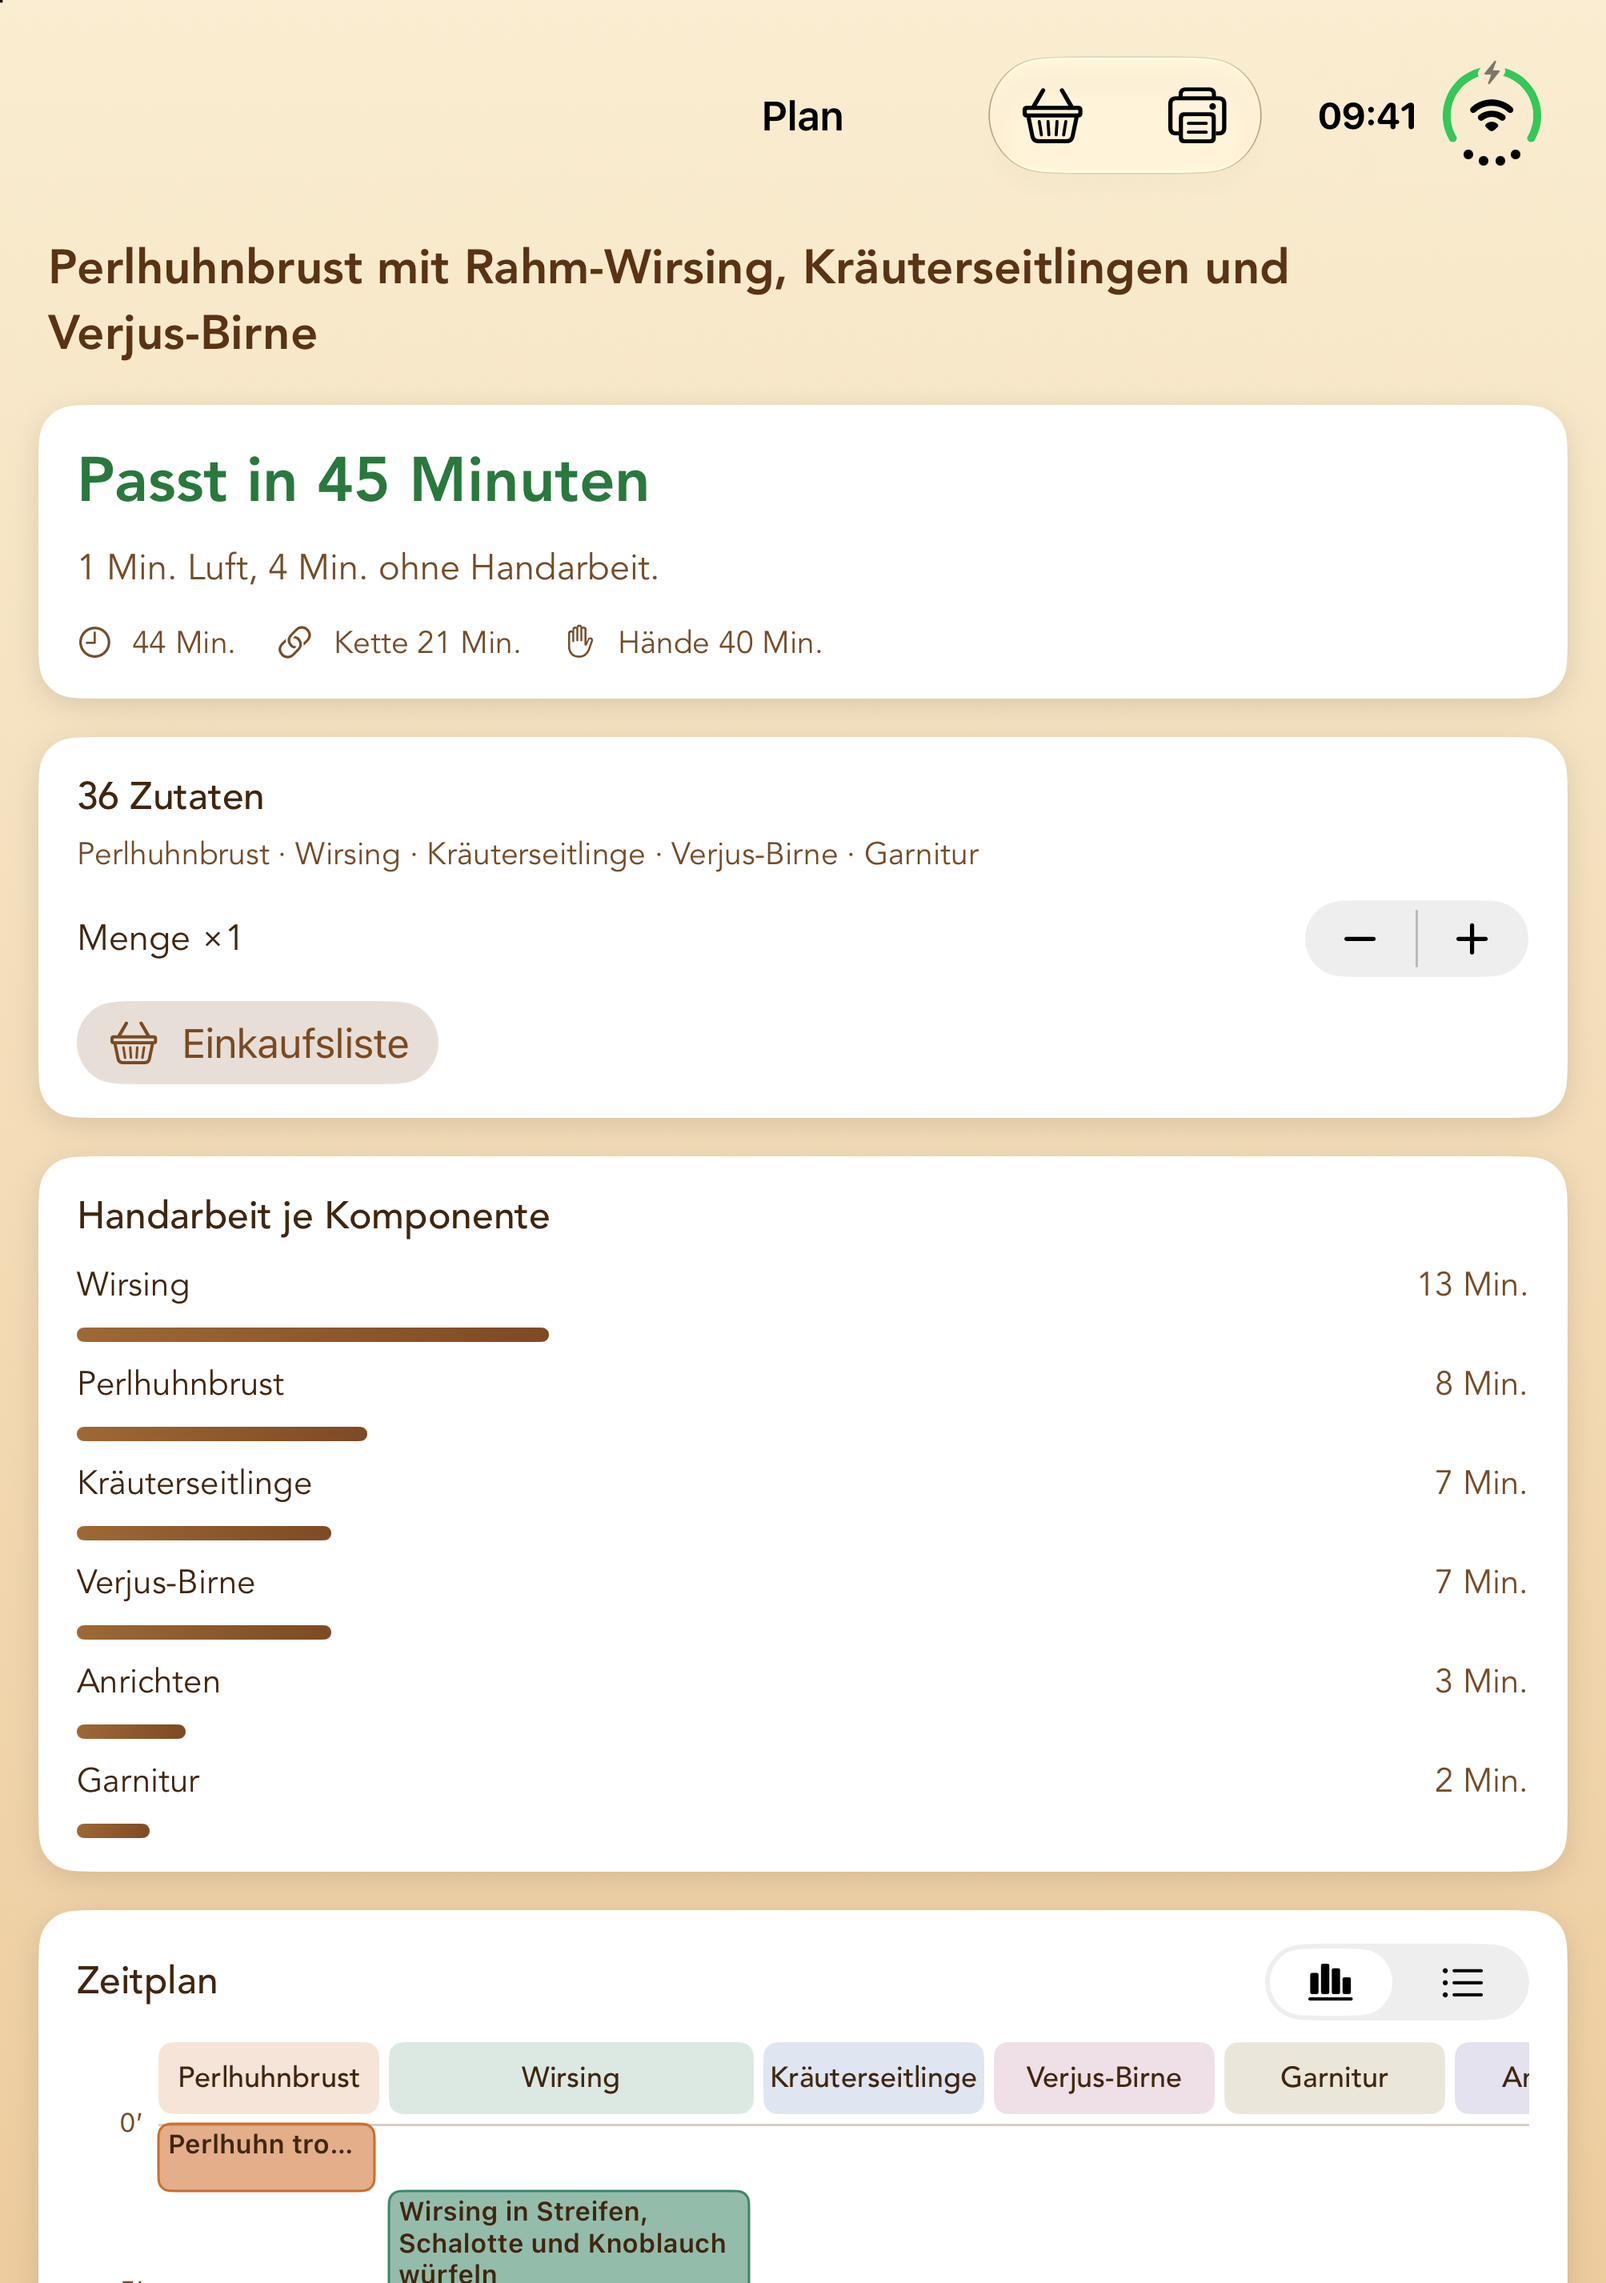
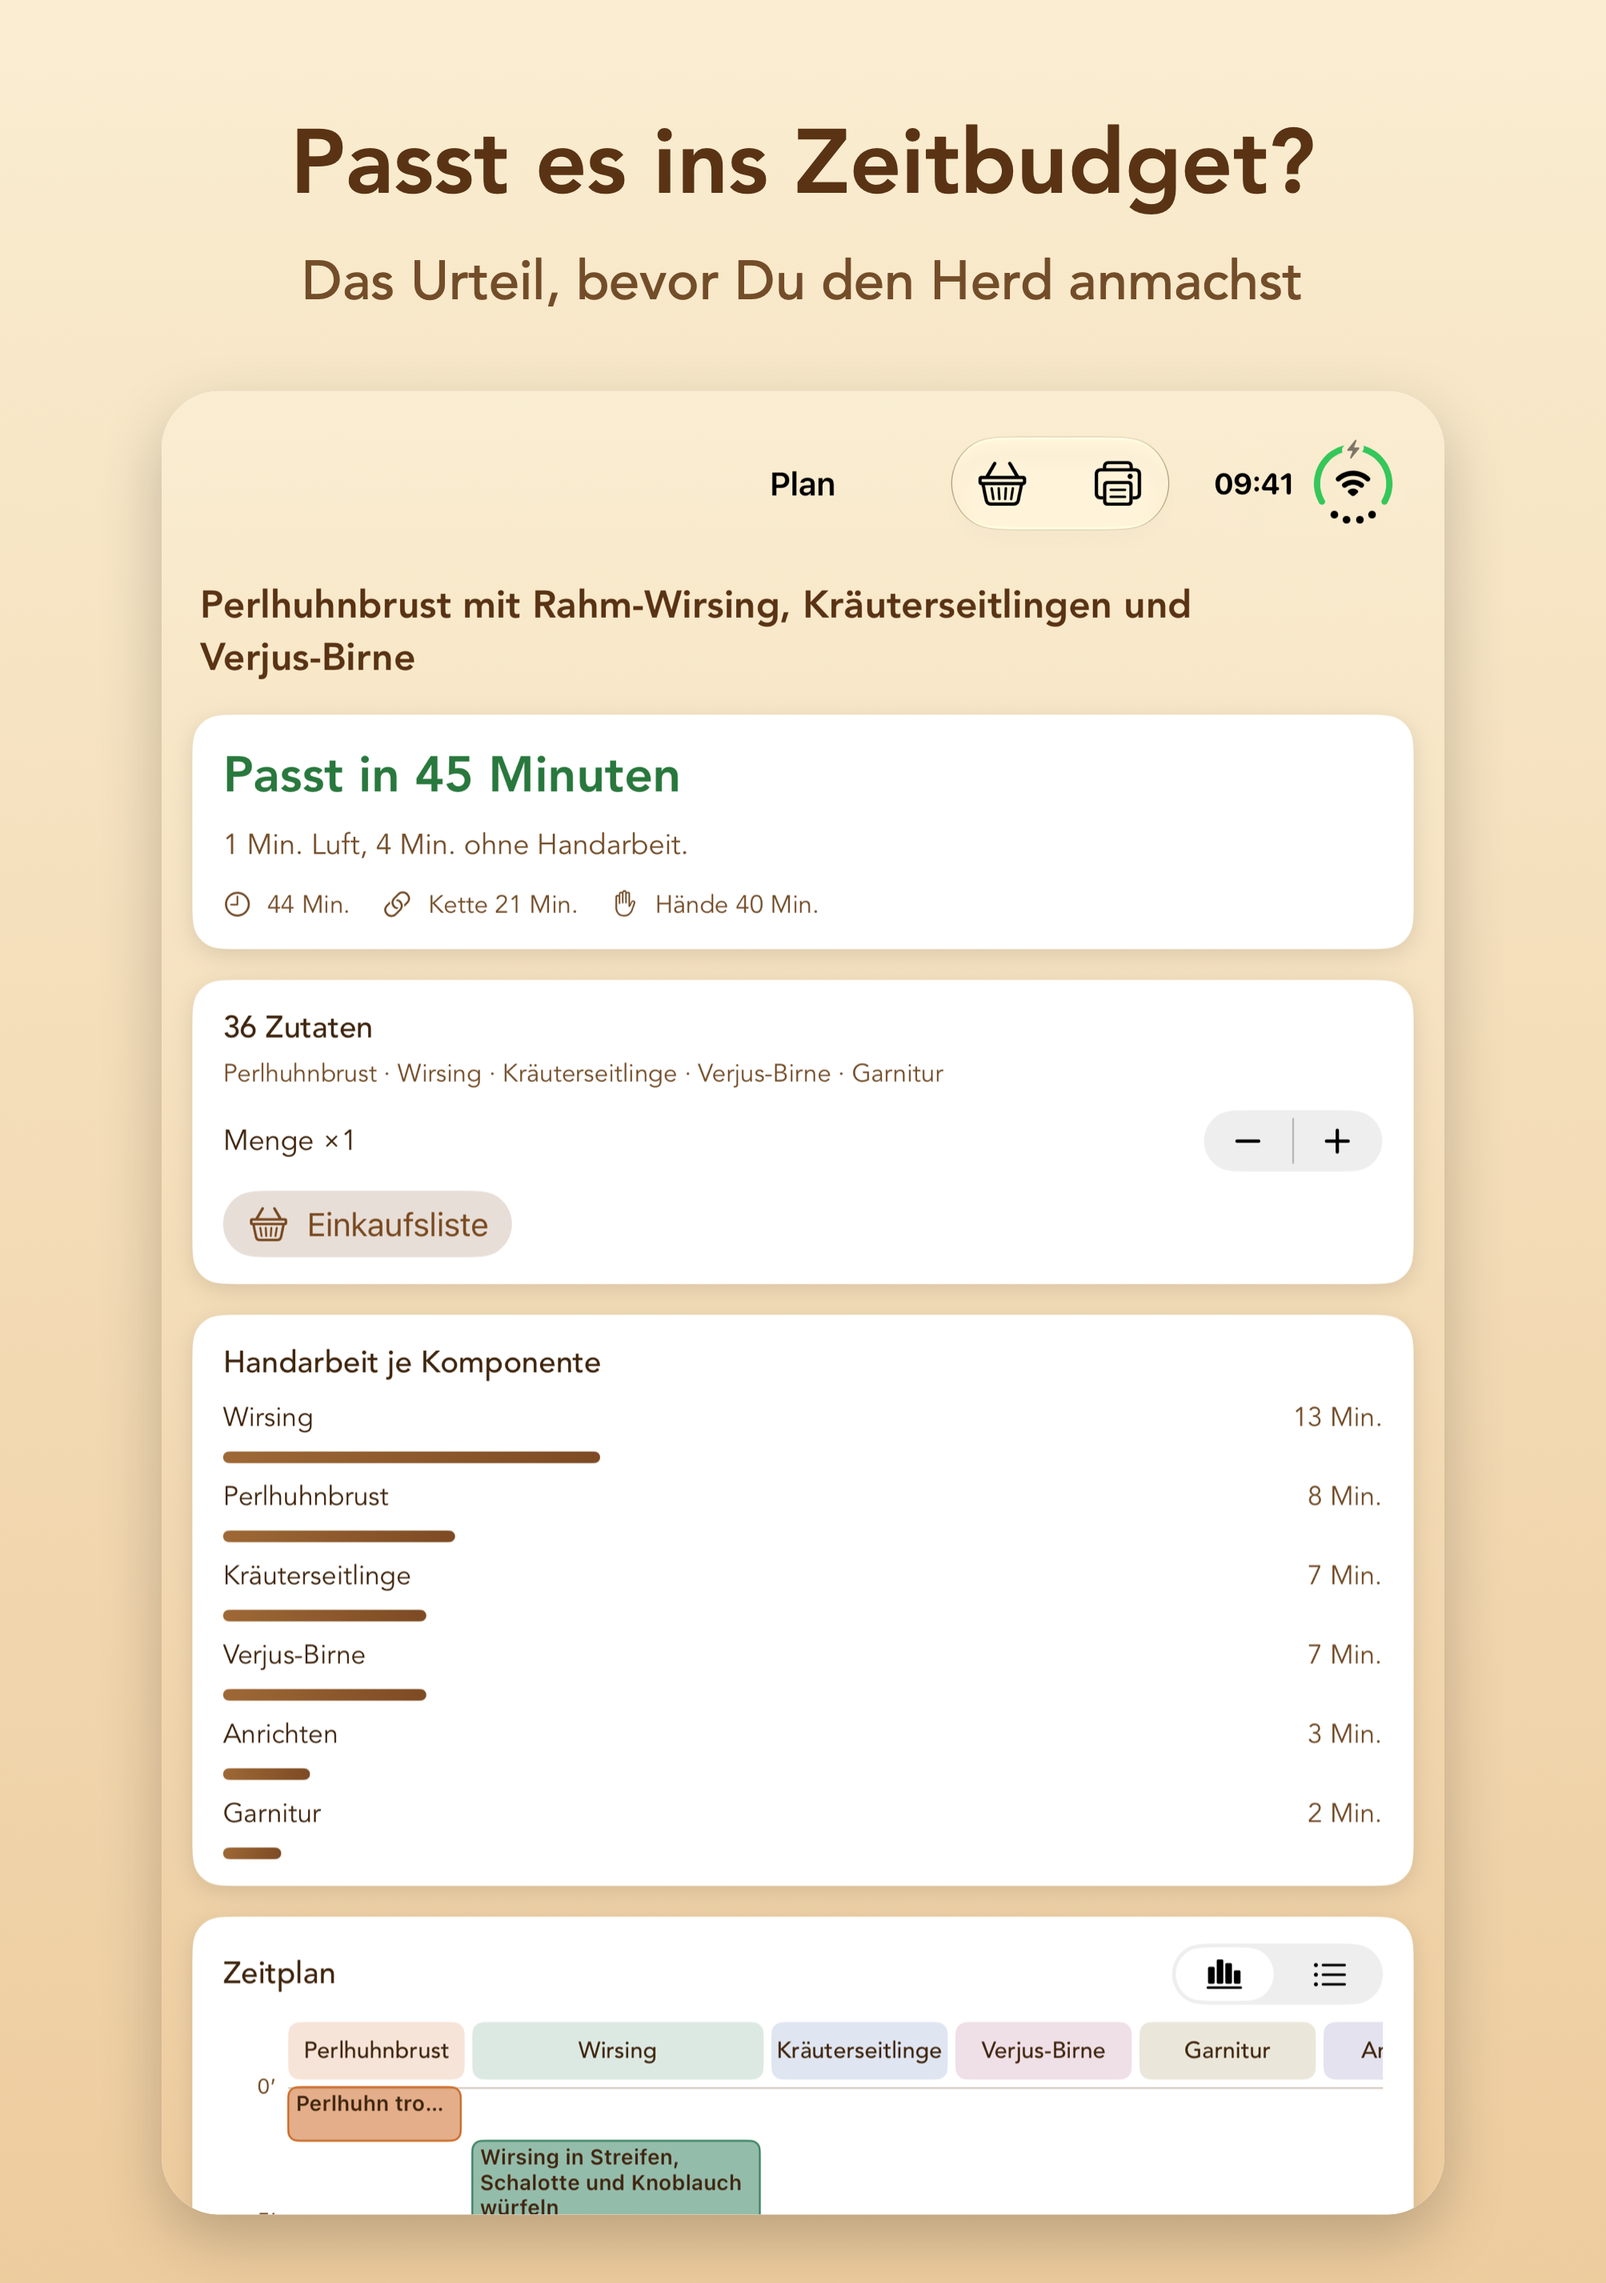
CookPlanner's store pictures carry headlines like BakePlanner's, and the Pro motifs (statistics, menu) a PRO badge

diff --git a/docs/cookplanner/CookPlanner-Store.md b/docs/cookplanner/CookPlanner-Store.md
@@ -214,12 +214,18 @@ Shopping list: on a dish's plan, the basket button. Settings (slider icon): time
 
 ## Bildschirmfotos
 
-Aufgenommen im Simulator (iPhone 17 Pro – laut BakePlanners Erfahrung nimmt App Store Connect die Maße der *Max*-Modelle nicht an –, iPad Pro 13 Zoll und iPhone Duo aufgeklappt, alle iOS 27.3) mit Statusleiste 9:41, Zeitbudget 45 Minuten und den Debug-Startargumenten: ohne Argument die Gerichteliste, `-PlanSample 0` der Plan, `-TimelineSample 0 -TimelineNow 13.5` die Zeitachse, `-CookSample 0 -CookElapsed 790 -settings.clockMode challenge` der laufende Kochmodus, `-ShoppingSample 0` die Einkaufsliste, `-HistoryDemo statistics` die Statistik, `-MenuSample 1 -settings.budgetMinutes 120` der Plan eines Menüs aus zwei Beispielen (Wirsingrolle als Vorspeise, Perlhuhnbrust als Hauptgang; das Budget-Argument muss **vor** dem allgemeinen stehen oder es ersetzen, sonst gewinnt das spätere); dazu `-settings.budgetMinutes 45 -AppleLanguages (de) -AppleLocale de_DE`. Die aufgeklappte Duo: `hinge -d <udid> open`, dann `hinge -d <udid> orient landscape-left` (Innendisplay hochkant), App mit dem Argument starten und `xcrun simctl io <udid> screenshot --display 3` – Berührungen erreichen das Innendisplay im Simulator nicht, die Startargumente brauchen keine.
+Seit 26.11.2026 mit Überschrift wie bei BakePlanner: Die Rohbilder liegen je Gerät in `…/de/roh/`, darüber setzt `scripts/bakeplanner/appstore-captions.swift` Überschrift und Unterzeile aus `docs/cookplanner/appstore/captions.json` (gleiche Farben und Schrift wie CookPlanner). Pro-Motive tragen eine **„PRO“-Marke** über der Überschrift (Liste `pro`: **06 Statistik**, **07 Menü**); der Kochmodus (04) bleibt ohne, weil er frei ist. Neu zusammensetzen:
+
+```
+for d in iphone-6.9 ipad-13 iphone-duo-inner; do swift scripts/bakeplanner/appstore-captions.swift docs/cookplanner/appstore/captions.json de docs/cookplanner/appstore/1.0/$d/de/roh docs/cookplanner/appstore/1.0/$d/de; done
+```
+
+Rohbilder: Aufgenommen im Simulator (iPhone 17 Pro – laut BakePlanners Erfahrung nimmt App Store Connect die Maße der *Max*-Modelle nicht an –, iPad Pro 13 Zoll und iPhone Duo aufgeklappt, alle iOS 27.3) mit Statusleiste 9:41, Zeitbudget 45 Minuten und den Debug-Startargumenten: ohne Argument die Gerichteliste, `-PlanSample 0` der Plan, `-TimelineSample 0 -TimelineNow 13.5` die Zeitachse, `-CookSample 0 -CookElapsed 790 -settings.clockMode challenge` der laufende Kochmodus, `-ShoppingSample 0` die Einkaufsliste, `-HistoryDemo statistics` die Statistik, `-MenuSample 1 -settings.budgetMinutes 120` der Plan eines Menüs aus zwei Beispielen (Wirsingrolle als Vorspeise, Perlhuhnbrust als Hauptgang; das Budget-Argument muss **vor** dem allgemeinen stehen oder es ersetzen, sonst gewinnt das spätere); dazu `-settings.budgetMinutes 45 -AppleLanguages (de) -AppleLocale de_DE`. Die aufgeklappte Duo: `hinge -d <udid> open`, dann `hinge -d <udid> orient landscape-left` (Innendisplay hochkant), App mit dem Argument starten und `xcrun simctl io <udid> screenshot --display 3` – Berührungen erreichen das Innendisplay im Simulator nicht, die Startargumente brauchen keine. **Stolperstein:** Der erste Start nach `simctl install` ist langsam und übernimmt die Startargumente nicht zuverlässig (leerer Kochmodus, Liste mit 35 statt 45 Minuten) – vorher einmal ohne Bild starten und 10 Sekunden warten.
 
 ## Offen
 
 - CookPlanner Pro: In-App-Kauf anlegen und mit 1.0 einreichen, erst danach die Schalter setzen – Reihenfolge in [CookPlanner-Pro.md](CookPlanner-Pro.md).
 
 - Webseiten `cookplanner.html` und `cookplanner-privacy.html` ins Website-Repository hochladen (Hans-Peter), dann die beiden URLs oben in App Store Connect eintragen.
-- Screenshots hochladen: `docs/cookplanner/appstore/1.0/iphone-6.9/de/` (1206 × 2622), `…/ipad-13/de/` (2064 × 2752) und `…/iphone-duo-inner/de/` (2007 × 2853, iPhone Duo aufgeklappt), je sieben Bilder (Gerichte, Plan, Zeitachse, Kochen mit Vorlesen und Sprachbefehlen, Einkauf, Statistik, Menü; neu aufgenommen am 26.11.); ohne eigene Bilder für en/fr nimmt App Store Connect die deutschen. iPad bleibt unterstützt (Layout im Simulator geprüft, Hans-Peter nutzt die App auf dem iPad).
+- Screenshots hochladen (die zusammengesetzten, nicht `roh/`): `docs/cookplanner/appstore/1.0/iphone-6.9/de/` (1206 × 2622), `…/ipad-13/de/` (2064 × 2752) und `…/iphone-duo-inner/de/` (2007 × 2853, iPhone Duo aufgeklappt), je sieben Bilder (Gerichte, Plan, Zeitachse, Kochen mit Vorlesen und Sprachbefehlen, Einkauf, Statistik, Menü; neu aufgenommen am 26.11.); ohne eigene Bilder für en/fr nimmt App Store Connect die deutschen. iPad bleibt unterstützt (Layout im Simulator geprüft, Hans-Peter nutzt die App auf dem iPad).
 - Erster TestFlight-Build und echter Kochtest auf beiden Geräten (iCloud-Abgleich in Production, Wecker, Mitteilungen).
